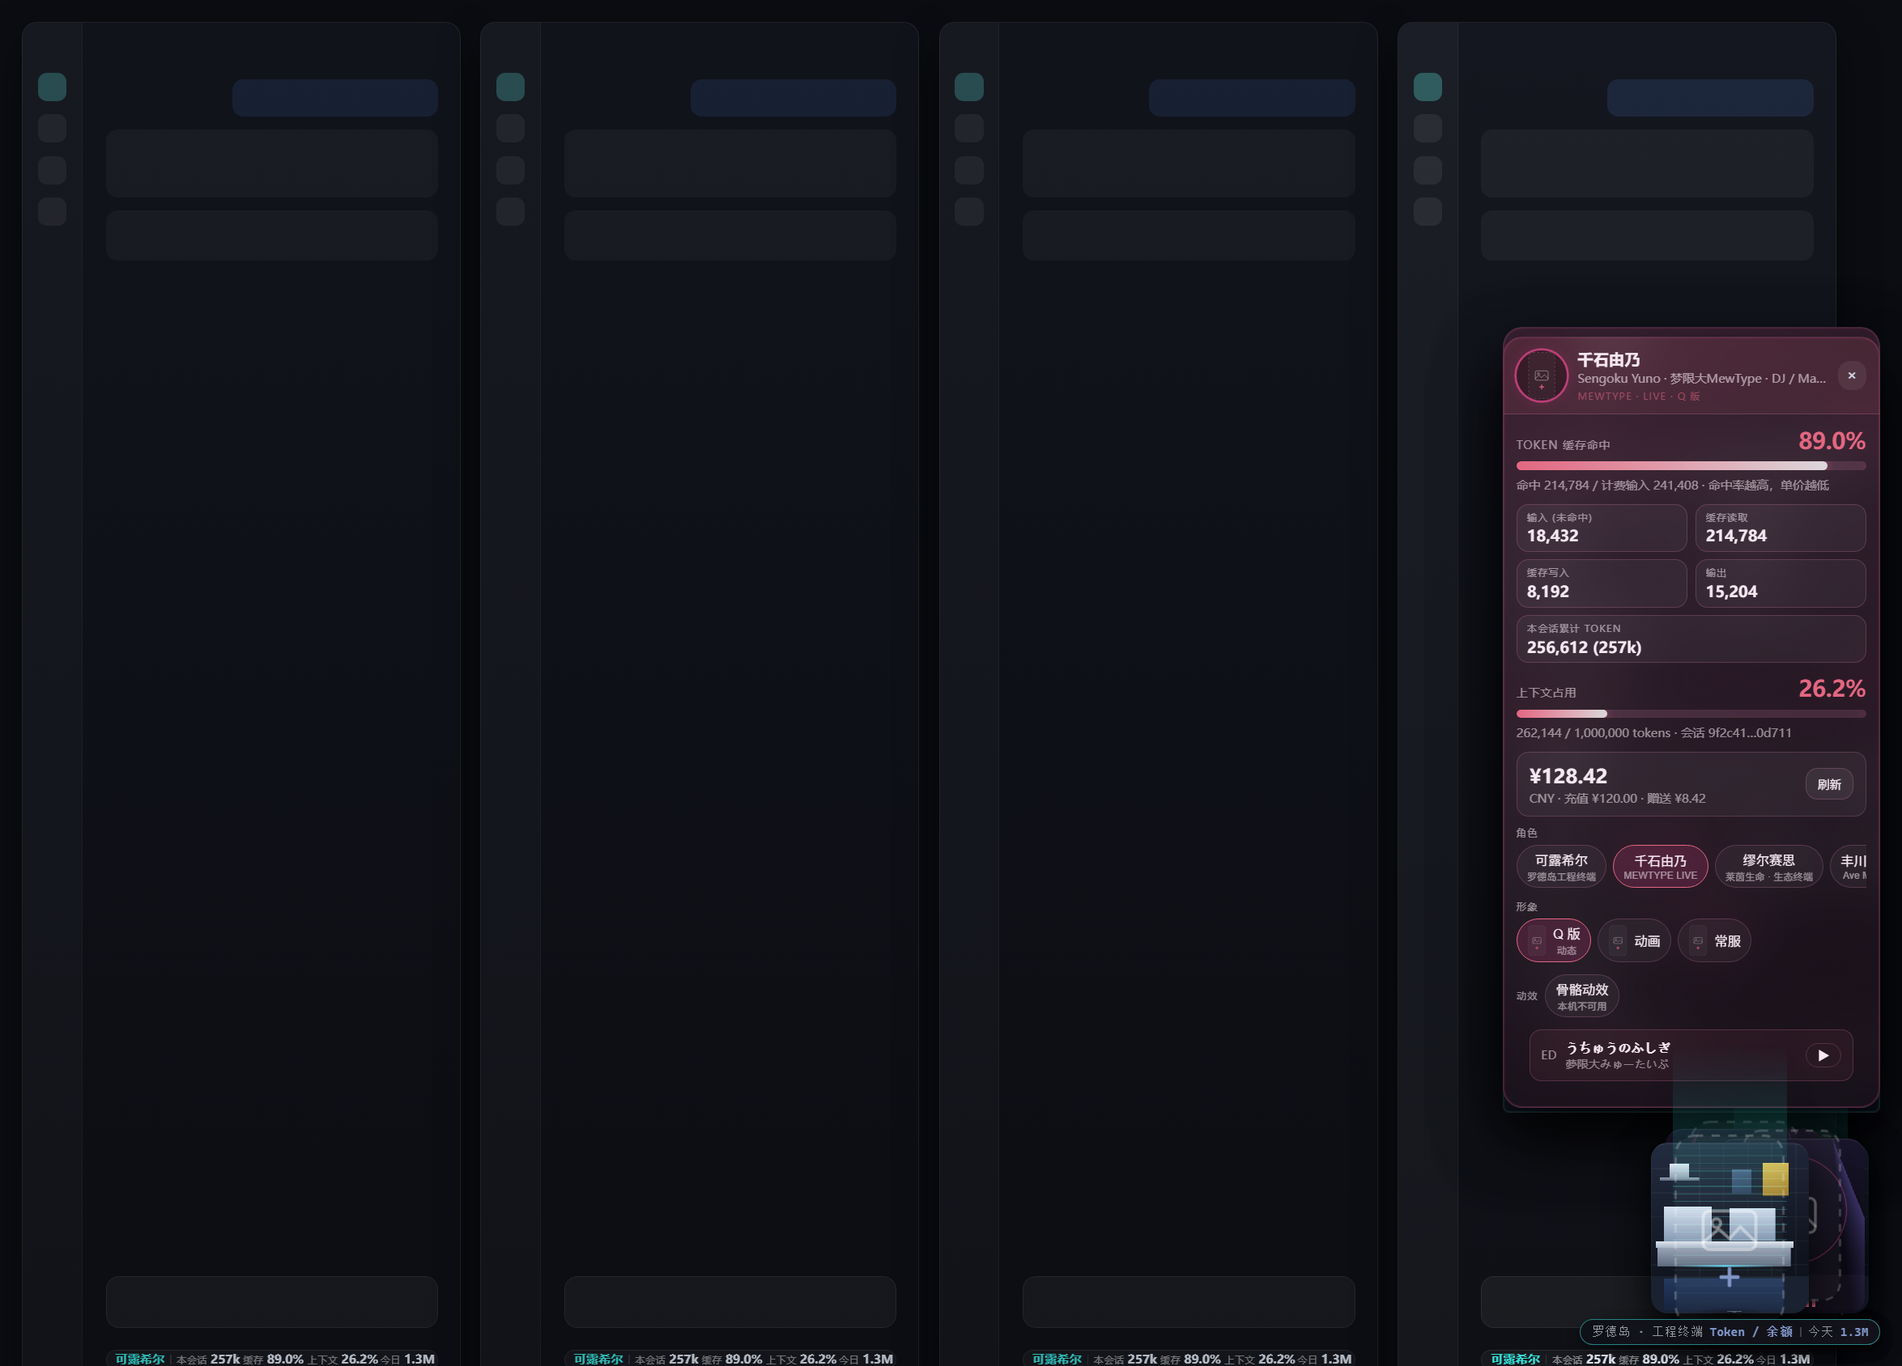
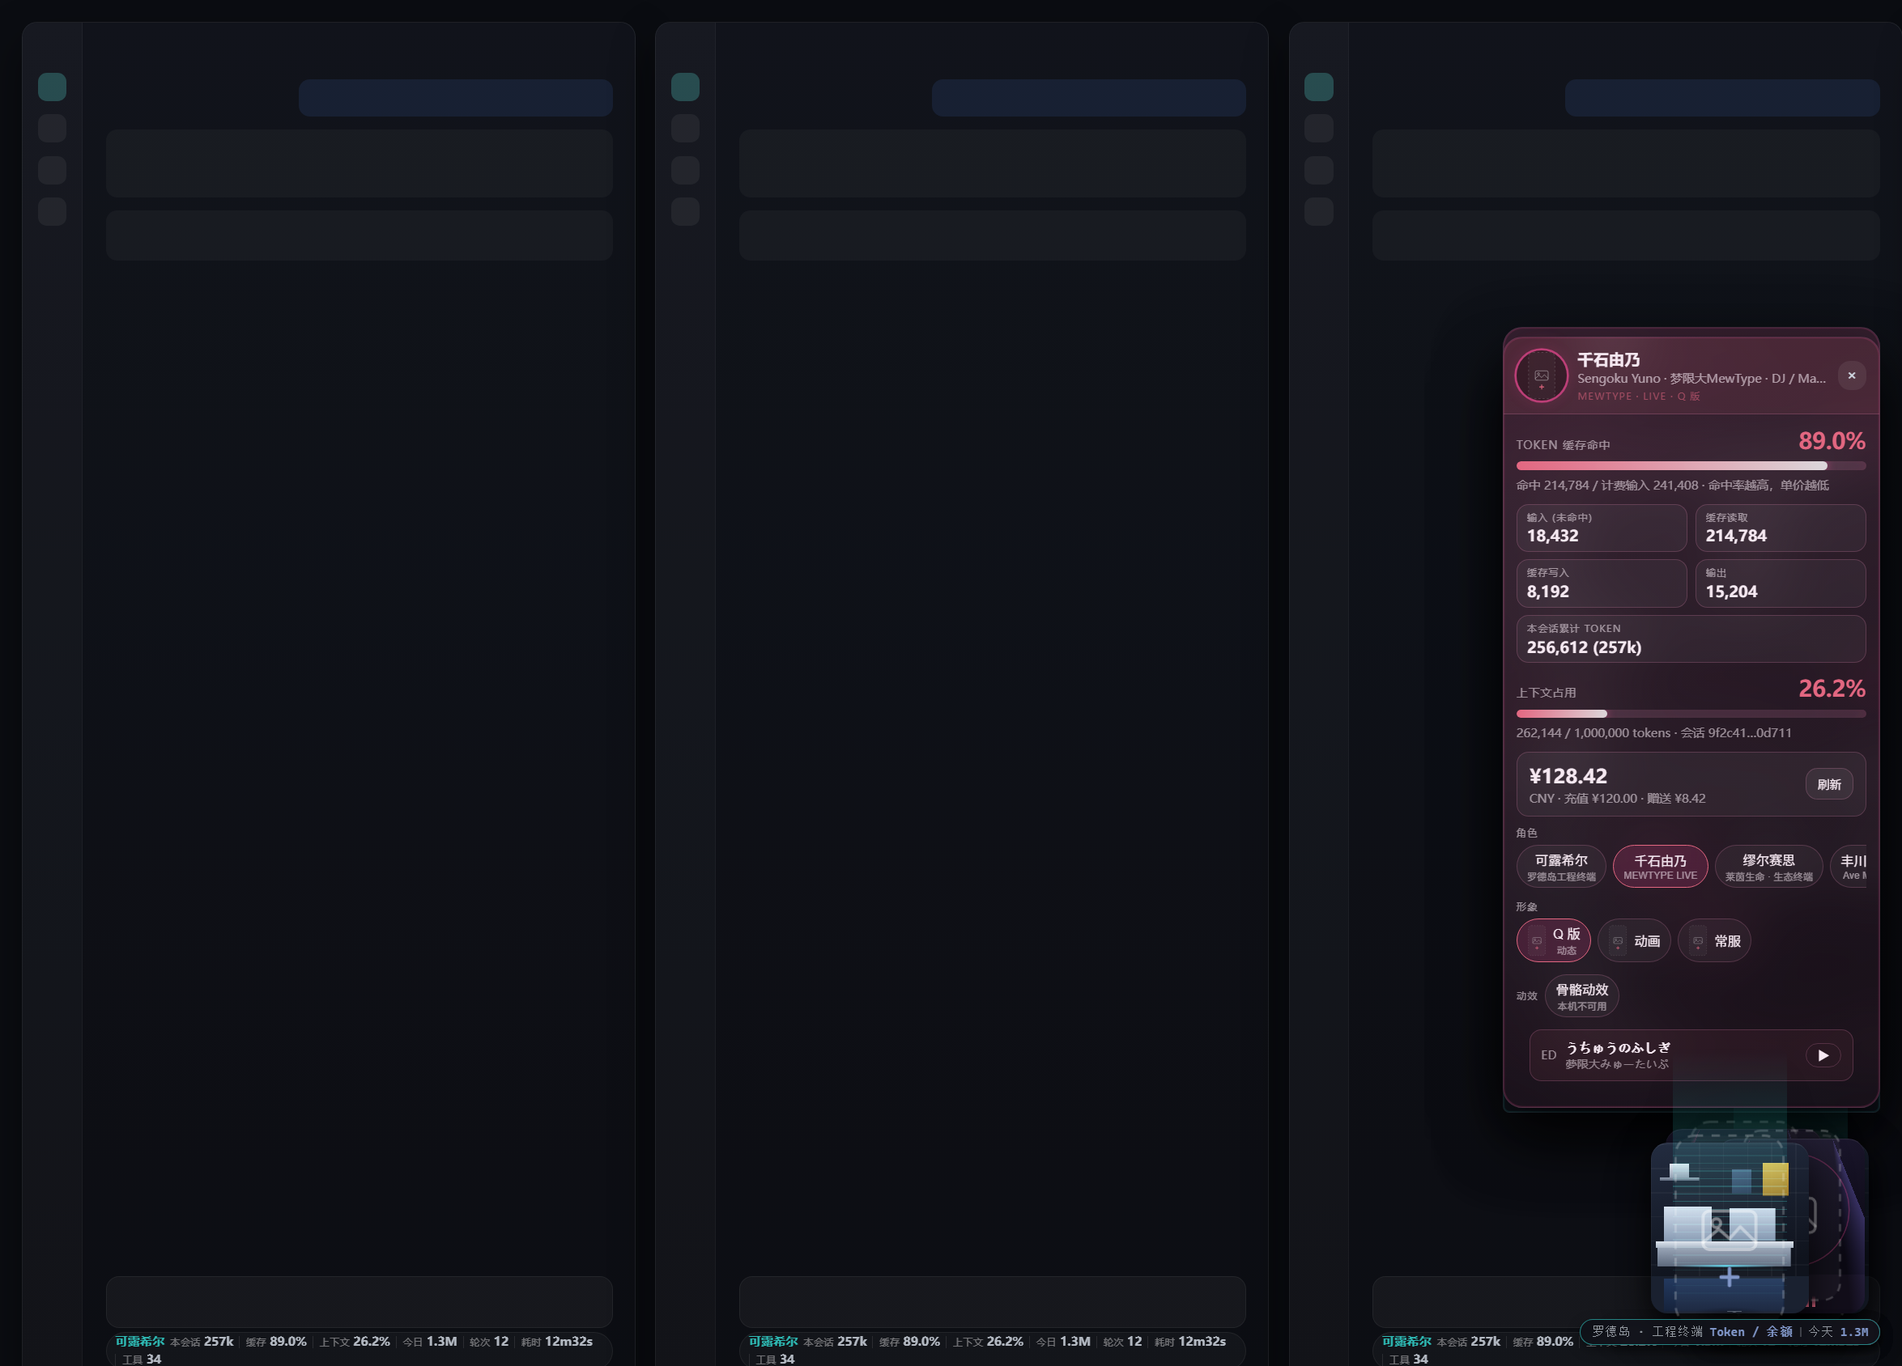
feat(mascot): 报账条补上轮次·耗时·工具调用 —— 宿主注册 mascotLedger 投影
上一版把 ponytail band 的四项（成本/耗时/复用率/测试状态）列为"DSH 里没有数据源"而没做。
实际复核后发现其中三项**可以精确算出来**，缺的不是数据而是折叠：会话日志里
turn/start 与 turn/end 都带 time（毫秒），tool/call 带 data.name（形状见 dsh-session 的
SessionEventMap）。所以按 DSH 官方的投影缝补上：宿主注册一个单元，框架把每个已提交事件
fold 进来，wire.view 的结果自动送到客户端，客户端 useProjection("mascotLedger") 读。

· 折叠规则：轮次 = turn/end 计数；耗时 = Σ(turn/end.time − 该轮 turn/start.time)，
  没有起点或时间倒流就计 0（宁可少算不出负数）；工具 = tool/call 计数，并按工具名分
  读/写两类（read|grep|glob|ls|list|search 对 write|edit|apply_patch|multi_edit）。

· **不叫"复用率"**。按工具名分类只知道"翻了几个文件、改了几处"，不知道这次改动是否真的
  复用了已有实现（那要读 diff 语义，插件做不到）。所以 band 上写「工具 34」，读/写明细放
  title 里。一个算得准的粗糙指标，好过一个算不准的漂亮指标。

· 校验器手写（本插件零依赖，不能为两个 schema 引 zod），但确实在校验：registry 用
  stateSchema.parse 判断磁盘上一条旧 checkpoint 还能不能用，校验松过头会让陈旧状态被当成
  当前值 —— 那正是这类缓存最容易出的错。测试里专门打了一条负数行和一个缺字段行。

· **fail-soft 是这次的重点**。sessionProjections 故意不写进顶层 inject：inject 里列了但
  服务不存在的后果是整个插件不激活，看板娘会连立绘一起消失。改为用 ctx.get 就地取（本文件
  取 connection / credentials 的既有写法）+ try/catch，注册被拒也只记 refused。
  三种结局报在 /api/health 的 ledger 字段上（installed / absent / refused）—— 这是用户唯一
  能自己核对的证据，因为"客户端到底收不收得到这个键"我无法离线验证。

· 客户端：band 多三格（轮次/耗时/工具），拿不到投影就退化成原来那四格；分隔符从独立元素
  改为 item 的左边框（独立元素在折行时会吊在行尾），并加 flex-wrap 让窄容器折行而不是被
  overflow 裁掉——ponytail 的 detail 模式本来就是多行。

验证：check 61→65 项（新增四项：折叠算术、无关事件返同引用 + view 引用稳定、
坏 checkpoint 被拒、服务缺失/被拒/装上三种结局）；preview 断言扩到八格并新增耗时格式化
（12m32s）一条，做了 A/B——把 duration 改成只印秒数，断言报「实际 …耗时752s…」；还原后
全绿。check-wiring、check-slider 同绿。

仍未验证：客户端能否真的收到这个键，取决于 DSH 的投影管线而不是本插件代码。刷新页面后
[…]

diff --git a/lib/index.js b/lib/index.js
@@ -868,6 +868,159 @@ function apply(ctx, rawConfig) {
 	}
 
 	/**
+	 * 按会话的用量账：轮次、agent 耗时、工具调用次数。
+	 *
+	 * ponytail 的 band 上那几项（耗时、复用、轮次）在 DSH 里没有现成投影：token-meter
+	 * 只计量词元，工具调用也不进 session projection。唯一能拿到它们的官方缝就是这个 ——
+	 * 宿主注册一个投影单元，框架把每个已提交事件 fold 进来，`wire.view` 的结果自动送到
+	 * 客户端，客户端用 useProjection("mascotLedger") 读。
+	 *
+	 * 事件形状取自 dsh-session 的 SessionEventMap：turn/start 与 turn/end 带 data.turn，
+	 * 事件本身带 time（毫秒），tool/call 带 data.name。
+	 */
+	const LEDGER_KEY = "mascotLedger";
+	/** installLedger 的结果，报在 /api/health 上 —— 这是"账本到底装上没有"唯一的对外证据。 */
+	let ledgerState = "absent";
+
+	/**
+	 * 工具名分两类：翻现有代码 / 落新代码。
+	 *
+	 * ⚠ 这不是 ponytail 意义上的"复用率"。它只按工具名分类，不知道这次改动是否真的
+	 * 复用了已有实现 —— 判断那个要读 diff 语义，插件做不到。所以 band 上写的是
+	 * "读/写次数"，不叫复用率：一个能算准的粗糙指标，好过一个算不准的漂亮指标。
+	 */
+	const READ_TOOLS = new Set(["read", "grep", "glob", "ls", "list", "search"]);
+	const WRITE_TOOLS = new Set(["write", "edit", "apply_patch", "multi_edit"]);
+
+	/**
+	 * 手写校验器，替代 zod。
+	 *
+	 * 本插件零运行时依赖，不能为了两个 schema 引一个库。但这里**真的在校验**，不是
+	 * 空实现：registry 用 stateSchema 决定磁盘上一条旧 checkpoint 还能不能用
+	 * （`stateSchema.parse(row.val)` 包在 try/catch 里，抛错就丢弃重算），所以校验器
+	 * 松过头会让陈旧状态被当成当前值 —— 那正是这类缓存最容易出的错。
+	 *
+	 * @param fields - 字段名 → 断言函数。
+	 * @returns 一个带 `parse` 的对象，形状满足 registry 的用法。
+	 */
+	function objectShape(fields) {
+		return {
+			parse(value) {
+				if (value === null || typeof value !== "object") throw new TypeError("需要一个对象");
+				const out = {};
+				for (const name of Object.keys(fields)) {
+					if (!fields[name](value[name])) throw new TypeError(`字段 ${name} 不合法`);
+					out[name] = value[name];
+				}
+				return out;
+			},
+		};
+	}
+	const isCount = (value) => typeof value === "number" && Number.isFinite(value) && value >= 0;
+	const LEDGER_STATE = objectShape({
+		turns: isCount,
+		agentMs: isCount,
+		calls: isCount,
+		reads: isCount,
+		writes: isCount,
+		// 当前打开那一轮的起点；null 表示没有正在跑的轮次。不进 view。
+		openAt: (value) => value === null || (typeof value === "number" && Number.isFinite(value)),
+	});
+	const LEDGER_VIEW = objectShape({ turns: isCount, agentMs: isCount, calls: isCount, reads: isCount, writes: isCount });
+
+	/**
+	 * 构造账本单元。
+	 *
+	 * `view` 必须在值没变时返回**同一个引用** —— 框架按 Object.is 判变化，返回新对象会让
+	 * 每帧都往外推一次。
+	 *
+	 * @returns the projection definition the registry expects.
+	 */
+	function ledgerDefinition() {
+		let lastState = null;
+		let lastView = null;
+		return {
+			key: LEDGER_KEY,
+			stateSchema: LEDGER_STATE,
+			init() {
+				return { turns: 0, agentMs: 0, calls: 0, reads: 0, writes: 0, openAt: null };
+			},
+			apply(state, event) {
+				const type = event === null || event === undefined ? undefined : event.type;
+				const data = event === null || event === undefined ? undefined : event.data;
+				if (type === "turn/start") {
+					return Object.assign({}, state, { openAt: typeof event.time === "number" ? event.time : null });
+				}
+				if (type === "turn/end") {
+					// 没有 turn/start 的 time（或时间倒流）就不计这一段，宁可少算也不出负数。
+					const ms = state.openAt !== null && typeof event.time === "number" && event.time >= state.openAt
+						? event.time - state.openAt
+						: 0;
+					return Object.assign({}, state, { turns: state.turns + 1, agentMs: state.agentMs + ms, openAt: null });
+				}
+				if (type === "tool/call") {
+					const name = data === null || data === undefined ? undefined : data.name;
+					const isRead = typeof name === "string" && READ_TOOLS.has(name);
+					const isWrite = typeof name === "string" && WRITE_TOOLS.has(name);
+					return Object.assign({}, state, {
+						calls: state.calls + 1,
+						reads: state.reads + (isRead ? 1 : 0),
+						writes: state.writes + (isWrite ? 1 : 0),
+					});
+				}
+				// 不是这一单元关心的事件：返回同一个引用，下游据此零成本跳过。
+				return state;
+			},
+			wire: {
+				viewSchema: LEDGER_VIEW,
+				view(state) {
+					if (state === lastState) return lastView;
+					lastState = state;
+					lastView = {
+						turns: state.turns,
+						agentMs: state.agentMs,
+						calls: state.calls,
+						reads: state.reads,
+						writes: state.writes,
+					};
+					return lastView;
+				},
+			},
+			stateVersion: 1,
+		};
+	}
+
+	/**
+	 * 把账本挂上去，全程失败也不影响插件本身。
+	 *
+	 * ⚠ 故意**不**把 sessionProjections 写进顶层 `inject`。inject 里列了但服务不存在的
+	 * 后果是「整个插件不激活」—— 看板娘会连立绘一起消失。宁可少几格读数，也不能让插件
+	 * 因为一个可选能力而装不上。所以就地取、就地判断、就地兜底。
+	 *
+	 * @param ctx - host context.
+	 * @returns installed | absent | refused，供 /api/health 报出去。
+	 */
+	function installLedger(ctx) {
+		// 用 ctx.get 而不是 ctx.sessionProjections：这是本文件取可选服务的既有写法
+		// （connection / credentials 都是这么取的），服务不在时它返回 undefined 而不是抛。
+		let registry;
+		try {
+			registry = ctx.get("sessionProjections");
+		} catch {
+			return "absent";
+		}
+		if (registry === null || registry === undefined || typeof registry.register !== "function") return "absent";
+		try {
+			const pending = registry.register(ledgerDefinition());
+			// register 是 awaitable：异步失败（版本冲突等）只会让客户端那个键读不到值。
+			if (pending !== null && pending !== undefined && typeof pending.catch === "function") pending.catch(() => {});
+			return "installed";
+		} catch {
+			return "refused";
+		}
+	}
+
+	/**
 	 * Route handler for everything under the configured prefix.
 	 * @param req - incoming request.
 	 * @param res - response owned by this handler.
@@ -928,6 +1081,9 @@ function apply(ctx, rawConfig) {
 				// 随包技能的去向：installed（刚写进去）/ present（那儿本来就有，没动）/
 				// disabled（配置里关了）/ missing（这个安装里没带）/ failed（写不进去，带原因）。
 				skill: await skillInstall,
+				// 账本投影的去向：installed（挂上了）/ absent（没有 sessionProjections 服务）/
+				// refused（服务在但注册被拒）。band 的轮次·耗时·工具调用三格依赖它。
+				ledger: ledgerState,
 			});
 			return;
 		}
@@ -1016,6 +1172,8 @@ function apply(ctx, rawConfig) {
 		() => ctx.webServer.register({ kind: "prefix", path: config.routePrefix, handler: handle }),
 		"mascot: routes",
 	);
+	// 报账条要的那几格（轮次/耗时/工具调用）靠它；装不上就只是少几格，见 installLedger。
+	ledgerState = installLedger(ctx);
 }
 
 export { apply, inject, name };

diff --git a/lib/client.js b/lib/client.js
@@ -2058,26 +2058,29 @@ function voiceStatus() {
    就能看见。这里落在 conversation.composer.dock，形态也照着来：一行、tabular 数字、
    标签小一号。band 不在 .dsh-mascot-root 里，拿不到那边的主题变量，所以每个变量都带
    回退值 —— 换主题时它跟着不上的代价是颜色退回默认，而不是整条消失。 */
-.dsh-mascot-band { display: flex; align-items: center; gap: 5px; min-width: 0; max-width: 100%;
+.dsh-mascot-band { display: flex; flex-wrap: wrap; align-items: center; gap: 5px 5px; min-width: 0; max-width: 100%;
   padding: 3px 9px 3px 8px; border-radius: 999px;
   border: 1px solid var(--dsh-mascot-hairline, rgba(255,255,255,.08));
   background: rgba(255,255,255,.04); color: var(--dsh-mascot-text, #dbe2ec);
   font-size: 11px; line-height: 1; white-space: nowrap; overflow: hidden; }
 .dsh-mascot-band .who { font-weight: 600; letter-spacing: .3px; flex: none;
   color: var(--dsh-mascot-accent, #37e0d8); }
-.dsh-mascot-band .sep { flex: none; width: 1px; height: 9px;
-  background: var(--dsh-mascot-hairline, rgba(255,255,255,.12)); }
-.dsh-mascot-band .item { display: inline-flex; align-items: baseline; gap: 3px; min-width: 0; }
+/* 分隔用 item 自己的左边框，不用独立元素：独立元素在折行时会吊在行尾（一行最后的那个竖线），
+   而左边框永远落在 item 的开头，折到第二行也只是"第二行第一个 item 前有一道"——
+   那正好就是分隔线的意思。ponytail 的 detail 模式本来就是多行。 */
+.dsh-mascot-band .item { display: inline-flex; align-items: baseline; gap: 3px; min-width: 0;
+  border-left: 1px solid var(--dsh-mascot-hairline, rgba(255,255,255,.12)); padding-left: 6px; }
+.dsh-mascot-band .item:first-of-type { border-left: 0; padding-left: 0; }
 .dsh-mascot-band .item em { font-style: normal; font-size: 9px; letter-spacing: .3px;
   color: var(--dsh-mascot-dim, rgba(255,255,255,.5)); }
 .dsh-mascot-band .item b { font-weight: 600; font-variant-numeric: tabular-nums;
   font-family: var(--dsh-mascot-font, inherit); }
 .dsh-mascot-band .warn { font-style: normal; flex: none; cursor: help; color: #f2b03d; }
 /* 窄屏只留"本会话"这一个数：一条挤成省略号的报账单不如把次要项收起来。
-   子元素顺序是 who, sep, item, sep, item, sep, item, sep, item, warn ——
-   从第 4 个子元素起全裁掉，正好剩下「可露希尔 | 本会话」。 */
+   子元素顺序是 who, item×7, warn —— 从第 3 个子元素起全裁掉，正好剩下
+   「可露希尔 | 本会话」。 */
 @media (max-width: 620px) {
-  .dsh-mascot-band > :nth-child(n+4) { display: none; }
+  .dsh-mascot-band > :nth-child(n+3) { display: none; }
 }
 
 /* ---------- pickers ---------- */
@@ -2146,6 +2149,44 @@ function voiceStatus() {
 			if (typeof value !== "number" || !Number.isFinite(value)) return "—";
 			return Math.round(value).toLocaleString("en-US");
 		}
+		/**
+		 * 读一个会话投影，读不到就是 `undefined`。
+		 *
+		 * `mascotLedger` 是本插件自己在宿主侧注册的键，未必每个 profile 都装得上
+		 * （见 lib/index.js 的 installLedger：服务不在、注册被拒都会退回"没有"）。
+		 * 所以这里不能直接调：一个可选能力不该把整条 band 带崩。
+		 *
+		 * @param project - the `useProjection` standard prop, if this slot has one.
+		 * @param key - projection key.
+		 * @returns the value, or `undefined` when absent.
+		 */
+		function readProjection(project, key) {
+			if (typeof project !== "function") return undefined;
+			try {
+				return project(key);
+			} catch {
+				return undefined;
+			}
+		}
+
+		/**
+		 * 毫秒 → 人读的一段时间：`48s` / `12m32s` / `1h05m`。
+		 *
+		 * ponytail 的 band 报的是 agent time（52m 14s 这种）；用户看的是"这活干了多久"，
+		 * 不是毫秒数，所以这里换算掉。
+		 *
+		 * @param ms - elapsed milliseconds.
+		 * @returns a short duration, or an em dash when the figure is absent.
+		 */
+		function duration(ms) {
+			if (typeof ms !== "number" || !Number.isFinite(ms) || ms < 0) return "—";
+			const seconds = Math.round(ms / 1000);
+			if (seconds < 60) return String(seconds) + "s";
+			const minutes = Math.floor(seconds / 60);
+			if (minutes < 60) return String(minutes) + "m" + String(seconds % 60).padStart(2, "0") + "s";
+			return String(Math.floor(minutes / 60)) + "h" + String(minutes % 60).padStart(2, "0") + "m";
+		}
+
 		/** Compact figure for tight cells: 12.3k / 4.5M. */
 		function compact(value) {
 			if (typeof value !== "number" || !Number.isFinite(value)) return "—";
@@ -3550,26 +3591,39 @@ function voiceStatus() {
 		 */
 		function MascotBand(props) {
 			const project = props.useProjection;
-			const usage = typeof project === "function" ? project("tokenUsage") : undefined;
-			const pressure = typeof project === "function" ? project("contextPressure") : undefined;
+			const usage = readProjection(project, "tokenUsage");
+			const pressure = readProjection(project, "contextPressure");
+			// 宿主自己注册的那本账（轮次 / 耗时 / 工具调用）。装不上就是 undefined，少三格而已。
+			const ledger = readProjection(project, "mascotLedger");
 			const stats = deriveStats(usage, pressure);
 			// 先算数再提前返回：hook 不能挂在 return 之后。
 			const spend = useTodaySpend(props.sessionId, stats.total);
 			if (stats.total === undefined) return null;
-			const item = (label, value) => h("span", { className: "item" }, h("em", null, label), h("b", null, value));
-			const sep = () => h("i", { className: "sep" });
+			const item = (label, value, title) => h(
+				"span",
+				{ className: "item", title: title === undefined ? undefined : title },
+				h("em", null, label),
+				h("b", null, value),
+			);
+			const extra = ledger === undefined || typeof ledger !== "object"
+				? []
+				: [
+					item("轮次", compact(ledger.turns)),
+					item("耗时", duration(ledger.agentMs)),
+					// 只报调用总数，读/写明细放 title 里：把它叫"复用率"是不诚实的，
+					// 这两个数只说明"翻了几个文件/改了几处"，不说明改动是否真的复用了已有实现。
+					item("工具", compact(ledger.calls),
+						`${String(ledger.reads ?? 0)} 次读 · ${String(ledger.writes ?? 0)} 次写 · 共 ${String(ledger.calls ?? 0)} 次调用`),
+				];
 			return h(
 				"div",
 				{ className: "dsh-mascot-band", role: "group", "aria-label": "可露希尔 · 本会话报账" },
 				h("b", { className: "who" }, "可露希尔"),
-				sep(),
 				item("本会话", compact(stats.total)),
-				sep(),
 				item("缓存", stats.cacheHitText),
-				sep(),
 				item("上下文", stats.occupancyText),
-				sep(),
 				item("今日", spend.today === undefined ? "—" : compact(spend.today)),
+				...(Array.isArray(extra) ? extra : []),
 				// 今日那格读数失败时不装作没发生：悬停给原因，格子里留一个记号。
 				spend.error === undefined ? null : h("i", { className: "warn", title: spend.error }, "!"),
 			);
